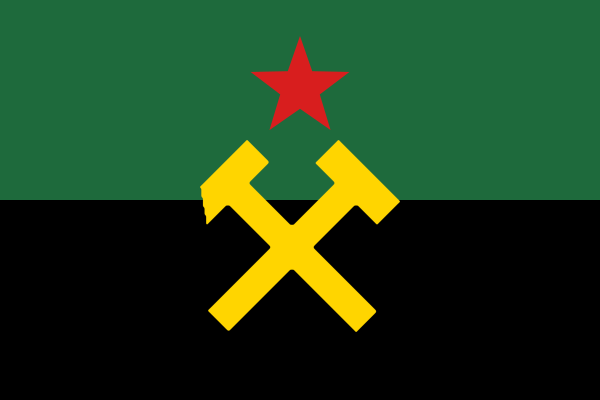
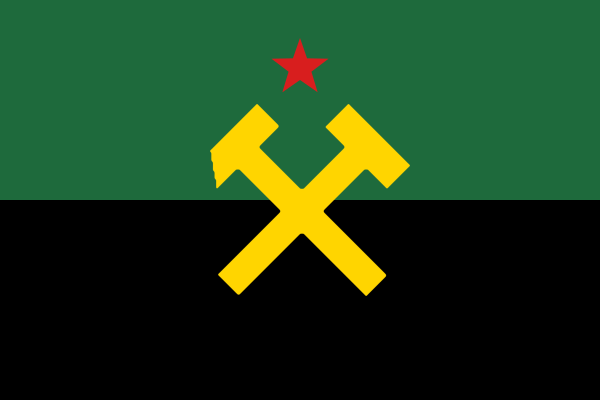
Śląsk rewolucyjny: młotki na środku, mniejsza gwiazda
Claude-Session: https://claude.ai/code/session_01PNyJEgjZDVeUSFrp2WbnmN

Changed region(s): [[0.33, 0.09, 0.69, 0.84]]

diff --git a/gfx_koncepty/flagi_slask/generuj_flagi.py b/gfx_koncepty/flagi_slask/generuj_flagi.py
@@ -38,7 +38,7 @@ F={
                           f'<rect x="62" y="186" width="176" height="14" fill="{RED}"/>'+img(BLK,BW,BH,150,96,168)),
  # Śląsk rewolucyjny (górnicy i hutnicy Górnego Śląska): górnicza zieleń nad czernią, żółte skrzyżowane młotki, nad nimi czerwona gwiazda
  '6_rewolucja': svg(f'<rect width="300" height="100" fill="#1e6a3c"/><rect y="100" width="300" height="100" fill="#000000"/>'
-                    +img(MG,MGW,MGH,150,118,96)+star(150,44,26,'#d81e1e')),
+                    +img(MG,MGW,MGH,155,100,96)+star(150,34,15,'#d81e1e')),
  # Teokracja husycka (Śląsk jest husyckim lennem Moraw): złoto nad czernią, kielich w kontrbarwach
  '7_teokracja': svg(f'<rect width="300" height="100" fill="{GOLD}"/><rect y="100" width="300" height="100" fill="{BLACK}"/>'
                     +chalice(150,100,160,[('0,0 300,0 300,100 0,100',BLACK),('0,100 300,100 300,200 0,200',GOLD)])),
